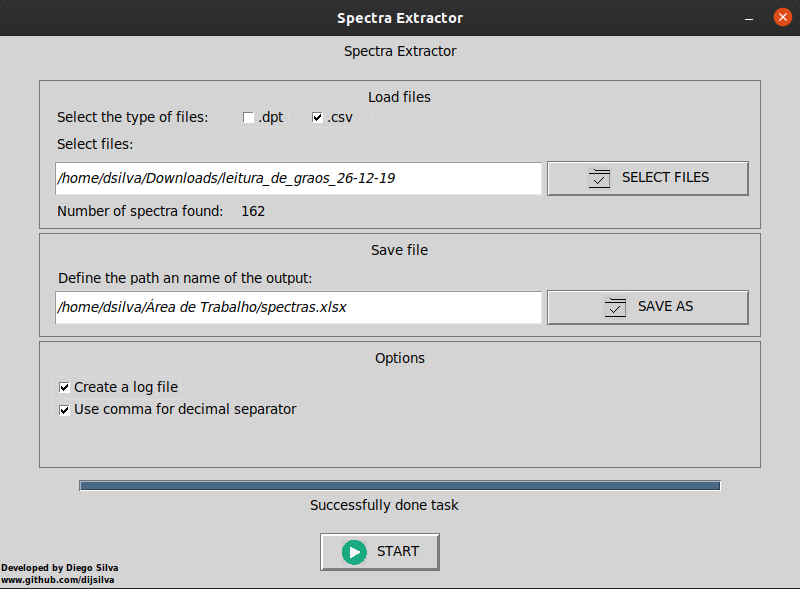
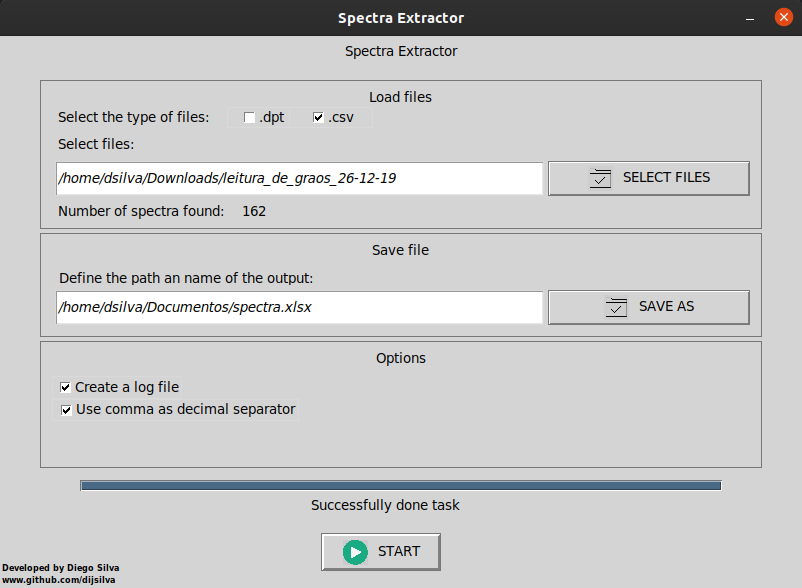
fix the text

diff --git a/main.py b/main.py
@@ -227,7 +227,7 @@ logButton.place(width=130, relheight=0.2, rely=0.25, relx=0)
 
 commaSepVar = tk.IntVar()
 commaSepVar.set(1)
-commaSepVarButton = tk.Checkbutton(optionsFrame, text="Use comma for decimal separator", variable=commaSepVar, bg='#d4d4d4', activebackground='#d4d4d4')
+commaSepVarButton = tk.Checkbutton(optionsFrame, text="Use comma as decimal separator", variable=commaSepVar, bg='#d4d4d4', activebackground='#d4d4d4')
 commaSepVarButton.place(width=247, relheight=0.2, rely=0.45, relx=0)
 
 
